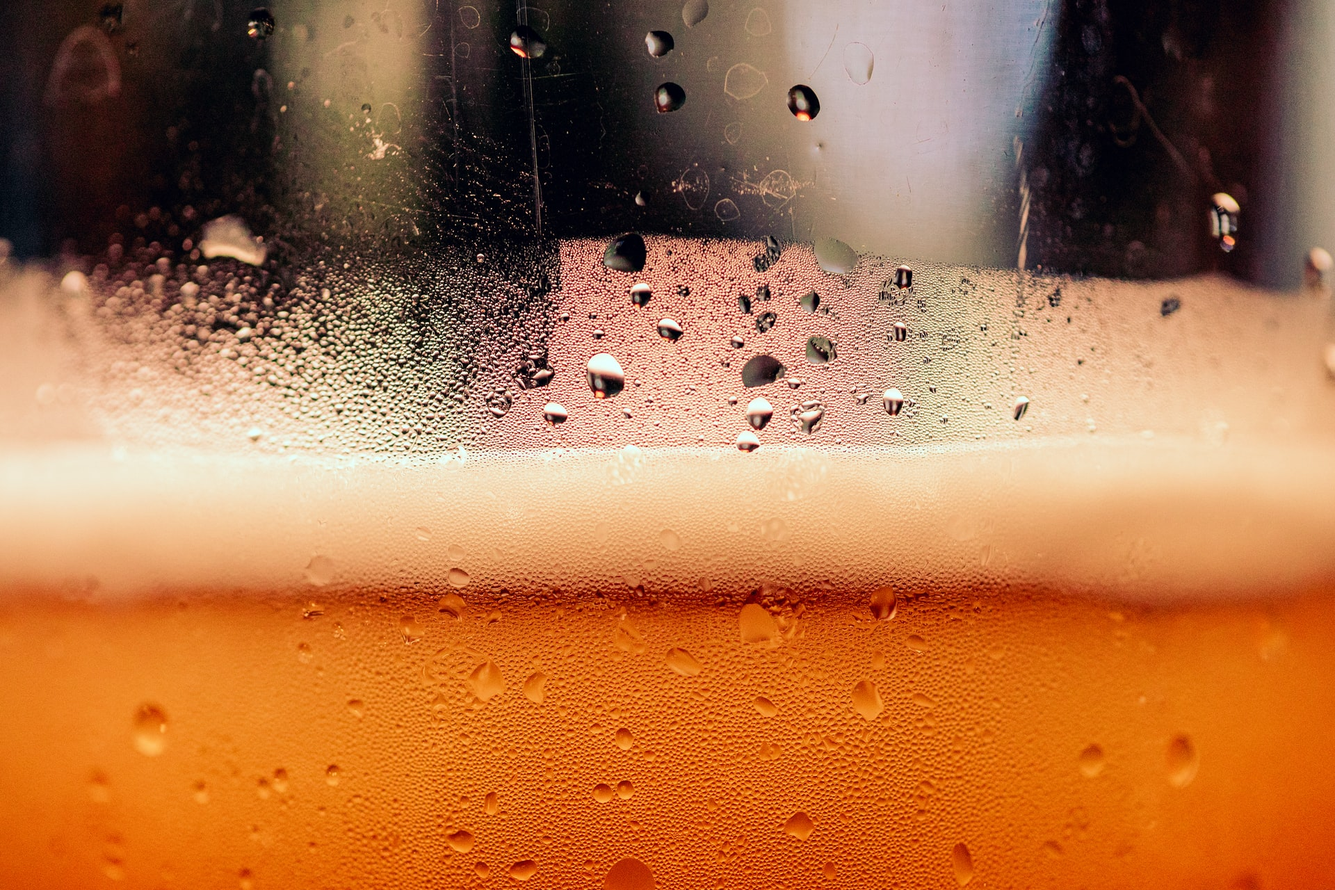
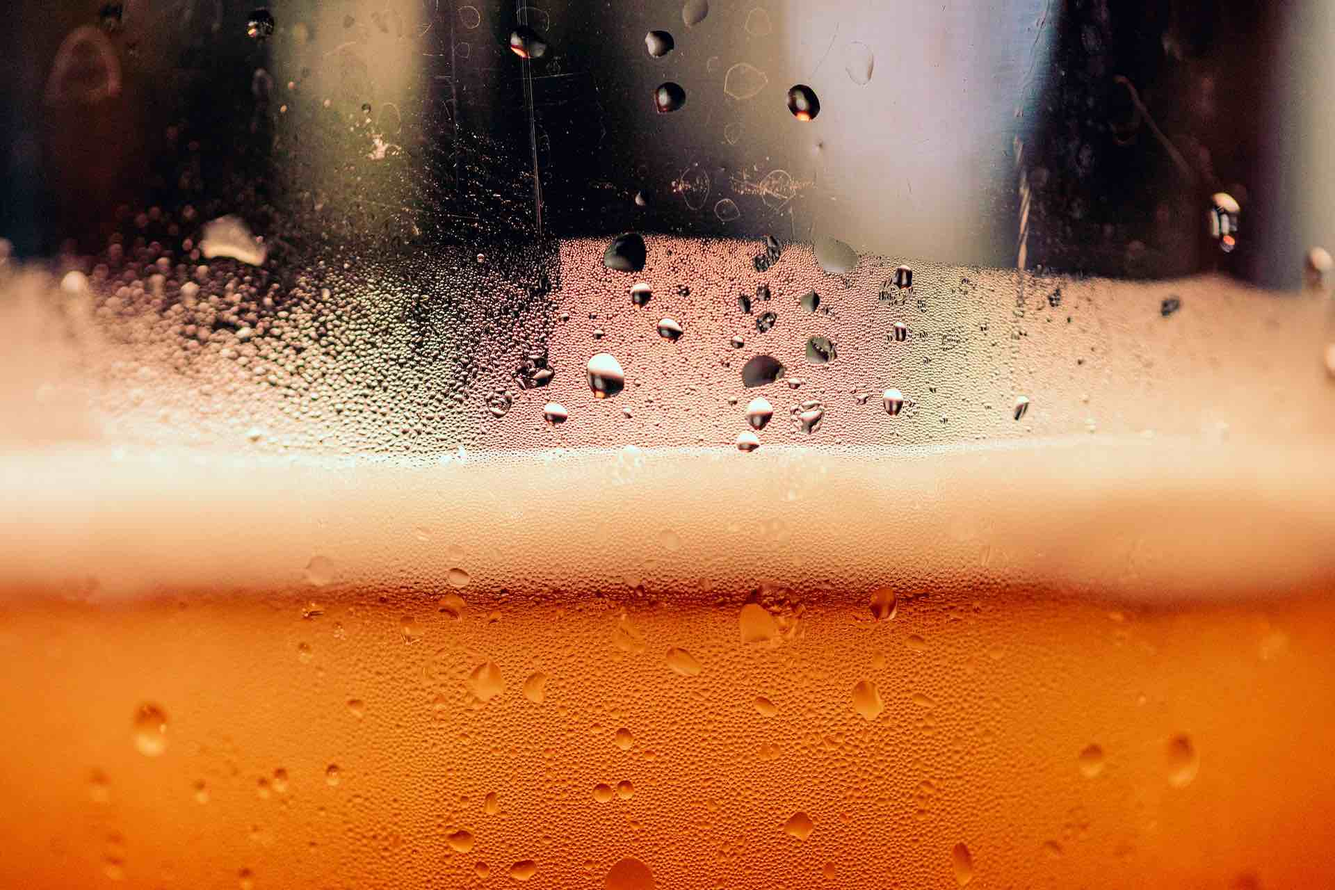
compressed background imaged, slowed down title animation

Changed region(s): [[0.1875, 0.1875, 0.7812, 0.5312], [0.3125, 0.6562, 0.6875, 1.0], [0.5, 0.625, 0.7188, 0.7188]]

diff --git a/css/main.min.css b/css/main.min.css
@@ -1,2 +1,2 @@
-@-webkit-keyframes slideInTitle{0%{-webkit-transform:translateX(-10rem);transform:translateX(-10rem)}70%{-webkit-transform:translateX(2rem);transform:translateX(2rem)}100%{-webkit-transform:translateX(0);transform:translateX(0)}}@keyframes slideInTitle{0%{-webkit-transform:translateX(-10rem);transform:translateX(-10rem)}70%{-webkit-transform:translateX(2rem);transform:translateX(2rem)}100%{-webkit-transform:translateX(0);transform:translateX(0)}}*,*::after,*::before{margin:0;padding:0;-webkit-box-sizing:inherit;box-sizing:inherit}html{font-size:62.5%}@media (max-device-width: 37.5em){html{font-size:35%}}@media (max-device-width: 56.25em){html{font-size:40%}}@media (max-device-width: 76em){html{font-size:48%}}body{background-image:-webkit-gradient(linear, left top, right bottom, from(rgba(148,148,148,0.6)), to(rgba(47,49,51,0.6))),url("/images/beer.jpg");background-image:linear-gradient(to right bottom, rgba(148,148,148,0.6), rgba(47,49,51,0.6)),url("/images/beer.jpg");background-size:cover;background-position:top;height:100%;padding-top:4rem;-webkit-box-sizing:border-box;box-sizing:border-box;overflow:auto}body{font-family:'Lato', sans-serif;font-weight:400;line-height:2rem}.container{display:-ms-grid;display:grid;-ms-grid-columns:1fr 1fr;grid-template-columns:1fr 1fr;-ms-grid-rows:1fr 1fr 1fr 1fr 1fr 1fr;grid-template-rows:1fr 1fr 1fr 1fr 1fr 1fr;width:80%;margin-left:auto;margin-right:auto;gap:2rem;margin-top:10rem}@media (max-device-width: 37.5em){.container{margin-top:12rem}}.container__tile{font-family:'Lato', sans-serif;display:block;font-size:2rem;line-height:2.5rem;font-weight:700;padding:2rem;border-radius:5px;height:24vh;overflow-y:scroll}@media (max-device-width: 56.25em){.container__tile{grid-column:span 2}}@media (max-width: 56.25em){.container__tile{grid-column:span 2;font-size:1.6rem}}.container__tile--link{text-decoration:none;color:inherit}.container__tile--link:hover{color:#bfff47}#by-name{background-color:#637dff}#by-food{background-color:#bfff47}#mellow{background-color:#e747ff}#bitter{background-color:#ffbc47}#random{background-color:#52fff9}#support-link{background-color:#FF6EC7}.header{font-family:'Audiowide';color:#49fb35;background-color:black;z-index:1;font-size:3rem;line-height:5rem;position:fixed;top:0;width:100%;padding:2.5rem;display:inline-block;-webkit-box-shadow:0 1rem 2rem rgba(0,0,0,0.4);box-shadow:0 1rem 2rem rgba(0,0,0,0.4)}.header__text{-webkit-animation-name:slideInTitle;animation-name:slideInTitle;-webkit-animation-duration:.7s;animation-duration:.7s;-webkit-transition:all ease-out;transition:all ease-out}@media (max-width: 79em){.header{font-size:2rem}}@media (max-width: 56.25em){.header{font-size:1.5rem}}@media (max-width: 42em){.header{font-size:1rem}}@media (max-device-width: 56.25em){.header{font-size:2rem}}.header-link{text-decoration:none;color:inherit}.header-link:hover{color:#FF6EC7}.btn{background-color:#f8f8ff;border:none;font-family:'Lato', sans-serif;font-size:2rem;font-weight:700;padding:1rem;border-radius:12px;margin-bottom:1rem;display:inline-block;-webkit-transition:all .2s;transition:all .2s;outline:none;cursor:pointer}.btn:hover{-webkit-transform:translateY(-3px);transform:translateY(-3px);-webkit-box-shadow:0 1rem 2rem rgba(0,0,0,0.2);box-shadow:0 1rem 2rem rgba(0,0,0,0.2)}.btn:active{-webkit-transform:translateY(-1px);transform:translateY(-1px);-webkit-box-shadow:0 0.5rem 1rem rgba(0,0,0,0.2);box-shadow:0 0.5rem 1rem rgba(0,0,0,0.2);outline:none}@media (max-width: 79em){.btn{font-size:1.6rem}}.input{width:95%;margin-left:auto;margin-right:auto;margin-top:1.5rem;margin-bottom:1.5rem;font-family:'Lato';padding-top:.5rem;padding-bottom:.5rem;font-weight:300;border-radius:5px;border:none}.input:focus{outline:2px solid #FF6EC7}.beerlist{font-weight:700;margin-top:.5rem;margin-bottom:.5rem;display:block;width:95%;border:none;background-color:#f8f8ff;font-family:'Lato';font-weight:700;padding:.5rem;font-size:1.6rem;-webkit-transition:all .2s ease-out;transition:all .2s ease-out}@media (max-width: 56.25em){.beerlist{font-size:1.4rem}}.beerlist__tagline{font-weight:300;font-size:1.6rem}.beerlist__description{font-weight:300;margin-bottom:2rem;font-size:1.6rem}.beerlist__heading{font-weight:400;font-size:1.6rem}
+@-webkit-keyframes slideInTitle{0%{-webkit-transform:translateX(-10rem);transform:translateX(-10rem)}70%{-webkit-transform:translateX(2rem);transform:translateX(2rem)}100%{-webkit-transform:translateX(0);transform:translateX(0)}}@keyframes slideInTitle{0%{-webkit-transform:translateX(-10rem);transform:translateX(-10rem)}70%{-webkit-transform:translateX(2rem);transform:translateX(2rem)}100%{-webkit-transform:translateX(0);transform:translateX(0)}}*,*::after,*::before{margin:0;padding:0;-webkit-box-sizing:inherit;box-sizing:inherit}html{font-size:62.5%}@media (max-device-width: 37.5em){html{font-size:35%}}@media (max-device-width: 56.25em){html{font-size:40%}}@media (max-device-width: 76em){html{font-size:48%}}body{background-image:-webkit-gradient(linear, left top, right bottom, from(rgba(148,148,148,0.6)), to(rgba(47,49,51,0.6))),url("/images/beer.jpg");background-image:linear-gradient(to right bottom, rgba(148,148,148,0.6), rgba(47,49,51,0.6)),url("/images/beer.jpg");background-size:cover;background-position:top;height:100%;padding-top:4rem;-webkit-box-sizing:border-box;box-sizing:border-box;overflow:auto}body{font-family:'Lato', sans-serif;font-weight:400;line-height:2rem}.container{display:-ms-grid;display:grid;-ms-grid-columns:1fr 1fr;grid-template-columns:1fr 1fr;-ms-grid-rows:1fr 1fr 1fr 1fr 1fr 1fr;grid-template-rows:1fr 1fr 1fr 1fr 1fr 1fr;width:80%;margin-left:auto;margin-right:auto;gap:2rem;margin-top:10rem}@media (max-device-width: 37.5em){.container{margin-top:12rem}}.container__tile{font-family:'Lato', sans-serif;display:block;font-size:2rem;line-height:2.5rem;font-weight:700;padding:2rem;border-radius:5px;height:24vh;overflow-y:scroll}@media (max-device-width: 56.25em){.container__tile{grid-column:span 2}}@media (max-width: 56.25em){.container__tile{grid-column:span 2;font-size:1.6rem}}.container__tile--link{text-decoration:none;color:inherit}.container__tile--link:hover{color:#bfff47}#by-name{background-color:#637dff}#by-food{background-color:#bfff47}#mellow{background-color:#e747ff}#bitter{background-color:#ffbc47}#random{background-color:#52fff9}#support-link{background-color:#FF6EC7}.header{font-family:'Audiowide';color:#49fb35;background-color:black;z-index:1;font-size:3rem;line-height:5rem;position:fixed;top:0;width:100%;padding:2.5rem;display:inline-block;-webkit-box-shadow:0 1rem 2rem rgba(0,0,0,0.4);box-shadow:0 1rem 2rem rgba(0,0,0,0.4)}.header__text{-webkit-animation-name:slideInTitle;animation-name:slideInTitle;-webkit-animation-duration:1s;animation-duration:1s;-webkit-transition:all ease-out;transition:all ease-out}@media (max-width: 79em){.header{font-size:2rem}}@media (max-width: 56.25em){.header{font-size:1.5rem}}@media (max-width: 42em){.header{font-size:1rem}}@media (max-device-width: 56.25em){.header{font-size:2rem}}.header-link{text-decoration:none;color:inherit}.header-link:hover{color:#FF6EC7}.btn{background-color:#f8f8ff;border:none;font-family:'Lato', sans-serif;font-size:2rem;font-weight:700;padding:1rem;border-radius:12px;margin-bottom:1rem;display:inline-block;-webkit-transition:all .2s;transition:all .2s;outline:none;cursor:pointer}.btn:hover{-webkit-transform:translateY(-3px);transform:translateY(-3px);-webkit-box-shadow:0 1rem 2rem rgba(0,0,0,0.2);box-shadow:0 1rem 2rem rgba(0,0,0,0.2)}.btn:active{-webkit-transform:translateY(-1px);transform:translateY(-1px);-webkit-box-shadow:0 0.5rem 1rem rgba(0,0,0,0.2);box-shadow:0 0.5rem 1rem rgba(0,0,0,0.2);outline:none}@media (max-width: 79em){.btn{font-size:1.6rem}}.input{width:95%;margin-left:auto;margin-right:auto;margin-top:1.5rem;margin-bottom:1.5rem;font-family:'Lato';padding-top:.5rem;padding-bottom:.5rem;font-weight:300;border-radius:5px;border:none}.input:focus{outline:2px solid #FF6EC7}.beerlist{font-weight:700;margin-top:.5rem;margin-bottom:.5rem;display:block;width:95%;border:none;background-color:#f8f8ff;font-family:'Lato';font-weight:700;padding:.5rem;font-size:1.6rem;-webkit-transition:all .2s ease-out;transition:all .2s ease-out}@media (max-width: 56.25em){.beerlist{font-size:1.4rem}}.beerlist__tagline{font-weight:300;font-size:1.6rem}.beerlist__description{font-weight:300;margin-bottom:2rem;font-size:1.6rem}.beerlist__heading{font-weight:400;font-size:1.6rem}
 /*# sourceMappingURL=main.min.css.map */

diff --git a/css/main.css b/css/main.css
@@ -175,8 +175,8 @@ body {
 .header__text {
   -webkit-animation-name: slideInTitle;
           animation-name: slideInTitle;
-  -webkit-animation-duration: .7s;
-          animation-duration: .7s;
+  -webkit-animation-duration: 1s;
+          animation-duration: 1s;
   -webkit-transition: all ease-out;
   transition: all ease-out;
 }

diff --git a/scss/layout/_header.scss b/scss/layout/_header.scss
@@ -13,7 +13,7 @@
     box-shadow: 0 1rem 2rem rgba(0, 0, 0, .4);;
     &__text{
         animation-name: slideInTitle;
-        animation-duration: .7s;
+        animation-duration: 1s;
         transition: all ease-out;
     }
     @include resize(wide){
